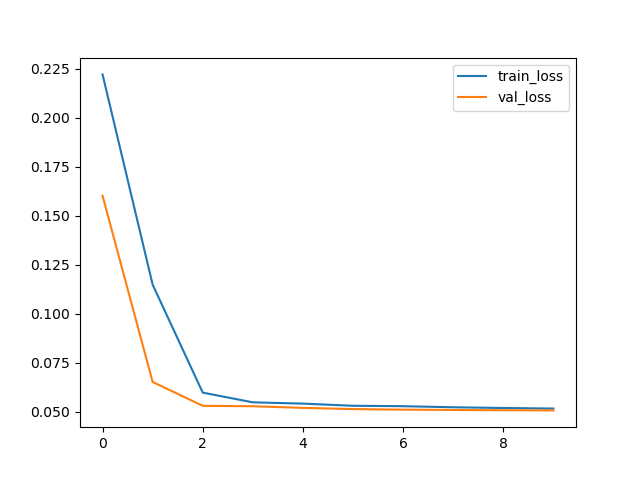
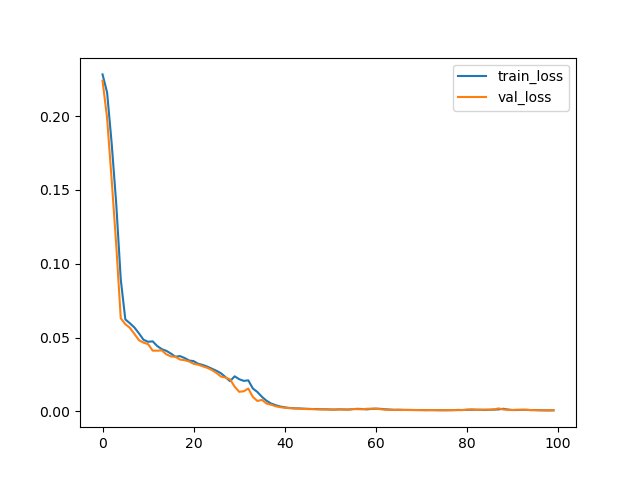
Improve model

diff --git a/code/model.py b/code/model.py
@@ -19,11 +19,19 @@ class CompressiveImagingModel(nn.Module):
             nn.Softmax(dim=1)
         )
 
+        # 卷积解码器：先升维成特征图，再用转置卷积还原空间结构
+        self.fc = nn.Linear(input_dim, 128 * 16 * 12)  # 128通道，16x12特征图
         self.decoder = nn.Sequential(
-            nn.Linear(input_dim, hidden_dim),
+            nn.ConvTranspose2d(128, 64, kernel_size=4, stride=2, padding=1),  # 32x24
             nn.ReLU(),
-            nn.Linear(hidden_dim, output_size),
-            nn.Sigmoid() 
+            nn.ConvTranspose2d(64, 32, kernel_size=4, stride=2, padding=1),   # 64x48
+            nn.ReLU(),
+            nn.ConvTranspose2d(32, 16, kernel_size=4, stride=2, padding=1),   # 128x96
+            nn.ReLU(),
+            nn.ConvTranspose2d(16, 8, kernel_size=4, stride=2, padding=1),    # 256x192
+            nn.ReLU(),
+            nn.ConvTranspose2d(8, 1, kernel_size=4, stride=2, padding=1),     # 512x384
+            nn.Sigmoid()
         )
 
     def forward(self, x, mask=None):
@@ -33,7 +41,9 @@ class CompressiveImagingModel(nn.Module):
         encoded = self.encoder(x)
 
         attn_weights = self.attn_pool(encoded)
-        pooled = torch.sum(attn_weights * encoded, dim=1)
+        pooled = torch.sum(attn_weights * encoded, dim=1)  # [B, input_dim]
 
-        out = self.decoder(pooled)
-        return out.view(-1, 1, 512, 384)
+        feat = self.fc(pooled)  # [B, 128*16*12]
+        feat = feat.view(-1, 128, 16, 12)  # [B, 128, 16, 12]
+        out = self.decoder(feat)  # [B, 1, 512, 384]
+        return out

diff --git a/code/dataset.py b/code/dataset.py
@@ -30,6 +30,15 @@ class GhostImagingDataset(Dataset):
         img_flatten_size = img_size[0] * img_size[1]
         self.Phi = np.random.randn(compress_dim, img_flatten_size).astype(np.float32)
 
+        if split == 'train':
+            self.transform = transforms.Compose([
+                transforms.RandomRotation(15),
+                transforms.RandomHorizontalFlip(),
+                transforms.Resize(img_size),
+                transforms.toTensor(),
+            ])
+
+
     def __len__(self):
         return len(self.object_dirs)
 

diff --git a/code/train.py b/code/train.py
@@ -4,9 +4,6 @@ from dataset import GhostImagingDataset
 from model import CompressiveImagingModel
 import torch.nn as nn
 
-# =====================
-# 配置区（超参数集中管理）
-# =====================
 config = {
     'root_dir': 'data/train',
     'img_size': (512, 384),
@@ -15,7 +12,7 @@ config = {
     'n_heads': 4,
     'n_layers': 2,
     'output_size': 512 * 384,
-    'epochs': 10,
+    'epochs': 50,
     'learning_rate': 1e-3,
     'keep_ratio': 0.2,
     'batch_size': 1
